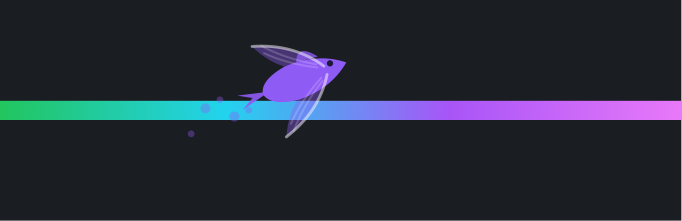
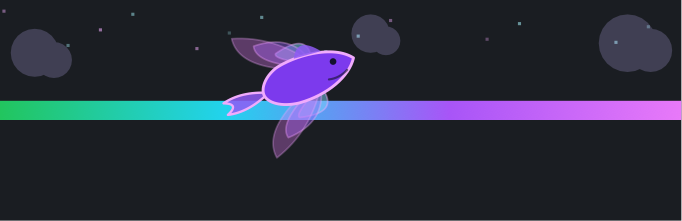
feat(kunpeng): restyle after the neon reference gif
- neon look: rim-lit body with a cyan->violet gradient, magenta rim at high
  levels, layered feather blades instead of thin slivers
- background tells the story: twinkling stars, water shimmer at low levels,
  cloud puffs once the level passes 55%
- body scale 0.6 -> 1.3, wings fan out from 40% of the range
- docs stills regenerated; README captions updated
- local only: no push, no release

diff --git a/lib/client.js b/lib/client.js
@@ -398,7 +398,7 @@ window.__ModuleLoader__.load({
 
 		/** Body scale of the creature: a small whale at off, a big Kunpeng at max. */
 		function kunpengScaleFor(energy) {
-			return 0.5 + 0.65 * clamp01(energy)
+			return 0.6 + 0.7 * clamp01(energy)
 		}
 
 		/** Wing growth 0..1, smoothstepped between 40% and 85% of the range. */
@@ -442,138 +442,169 @@ window.__ModuleLoader__.load({
 
 			paint(context, state, frame) {
 				const { energy, accent, width, height } = frame
-				const trackY = frame.trackY ?? height - 42
-				const time = state.time
 				const level = clamp01(energy)
+				const time = state.time
 
-				// ---- the creature ------------------------------------------
+				// night sky: a few twinkling stars
+				context.save()
+				for (let index = 0; index < 14; index += 1) {
+					const sx = ((index * 53.7) % Math.max(1, width - 2)) + 1
+					const sy = 4 + ((index * 31.3) % 30)
+					const twinkle = 0.35 + 0.45 * Math.abs(Math.sin(time * 1.6 + index * 1.7))
+					context.globalAlpha = twinkle * (0.45 + 0.4 * level)
+					context.fillStyle = index % 3 === 0 ? '#f0abfc' : '#a5f3fc'
+					context.fillRect(sx, sy, 1.3, 1.3)
+				}
+				context.restore()
+
+				const lineY = frame.trackY ?? (frame.band ? frame.band.top + frame.band.height : height - 40)
+
+				// water shimmer at low levels, cloud puffs at high levels
+				context.save()
+				if (level < 0.55) {
+					context.globalAlpha = 0.35 * (1 - level / 0.55)
+					context.fillStyle = accent
+					for (let x = 0; x < width; x += 7) {
+						const crest = 1.6 + Math.sin(x / 19 + time * 2.4) * 1.4
+						context.fillRect(x, lineY - 5 - crest, 3, 1.4)
+					}
+				} else {
+					context.globalAlpha = 0.16 + 0.1 * level
+					context.fillStyle = '#c4b5fd'
+					for (const cloud of [
+						{ x: 16, y: lineY - 24, r: 10 },
+						{ x: width - 24, y: lineY - 28, r: 12 },
+						{ x: width * 0.55, y: lineY - 32, r: 8 },
+					]) {
+						const drift = Math.sin(time * 0.6 + cloud.x) * 3
+						context.beginPath()
+						context.arc(cloud.x + drift, cloud.y, cloud.r, 0, Math.PI * 2)
+						context.arc(cloud.x + drift + cloud.r * 0.8, cloud.y + 3, cloud.r * 0.75, 0, Math.PI * 2)
+						context.fill()
+					}
+				}
+				context.restore()
+
+				// the creature
 				const scale = kunpengScaleFor(level)
 				const wing = kunpengWingFor(level)
 				const lift = kunpengLiftFor(level)
 				const angle = kunpengAngleFor(level)
-				const bob = Math.sin(time * 2.2) * (1.5 + 1.5 * level)
-				// Never clip the wings at the top of the fixed panel.
-				const reach = (wing > 0.05 ? 20 * wing + 6 : 9) * scale
-				// The bar is the standard horizontal line; the creature rides just
-				// above it and climbs only as far as the fixed panel allows.
-				const lineY = frame.trackY ?? (frame.band ? frame.band.top + frame.band.height : trackY)
+				const bob = Math.sin(time * 2.2) * (1.2 + 1.2 * level)
+				const reach = (wing > 0.05 ? 18 * wing + 7 : 8) * scale
 				const y = Math.max(reach + 2, lineY - lift - bob)
-
-				// bubbles / sparkles trailing behind
-				context.save()
-				context.globalAlpha = 0.5 * (1 - level * 0.4)
-				context.fillStyle = accent
-				for (let index = 0; index < 5; index += 1) {
-					const phase = time * 1.6 + index * 1.7
-					const bx = state.x - 26 * scale - index * 6
-					const by = y + 10 + Math.sin(phase) * 6 + index * 2
-					context.beginPath()
-					context.arc(bx, by, 1.4 + (index % 2) * 0.7, 0, Math.PI * 2)
-					context.fill()
-				}
-				context.restore()
 
 				drawKunpeng(context, { x: state.x, y, scale, wing, angle, accent, time, energy: level })
 			},
 		}
 
-		/** Paint the whale -> Kunpeng body in local units (roughly 40 long). */
+		/** Paint the whale -> Kunpeng in local units (roughly 44 long). */
 		function drawKunpeng(context, options) {
 			const { x, y, scale, wing, angle, accent, time, energy } = options
 			context.save()
 			context.translate(x, y)
 			context.rotate(angle)
 			context.scale(scale, scale)
+
+			const rim = energy > 0.5 ? '#f0abfc' : '#a5f3fc'
+			const glowColor = energy > 0.5 ? '#c084fc' : accent
 			context.lineJoin = 'round'
-			context.shadowColor = accent
-			context.shadowBlur = 8 + 10 * energy
+			context.lineCap = 'round'
 
-			const body = context.createLinearGradient(-24, 0, 20, 0)
-			body.addColorStop(0, accent)
-			body.addColorStop(0.55, '#ffffff')
-			body.addColorStop(1, accent)
-
-			// tail fluke
+			// ---- tail fluke (behind the body) ---------------------------
 			const flap = Math.sin(time * 6) * (2 + 5 * energy)
+			context.save()
+			context.shadowColor = glowColor
+			context.shadowBlur = 8 + 10 * energy
 			context.beginPath()
-			context.moveTo(-18, 0)
-			context.lineTo(-32, -7 + flap)
-			context.lineTo(-26, 0)
-			context.lineTo(-32, 7 - flap)
+			context.moveTo(-16, 0)
+			context.quadraticCurveTo(-26, -8 + flap, -34, -6 + flap)
+			context.quadraticCurveTo(-28, 0, -34, 6 - flap)
+			context.quadraticCurveTo(-26, 8 - flap, -16, 0)
 			context.closePath()
 			context.fillStyle = accent
-			context.globalAlpha = 0.9
+			context.globalAlpha = 0.85
 			context.fill()
-
-			// body
 			context.globalAlpha = 1
-			context.beginPath()
-			context.moveTo(19, 0)
-			context.quadraticCurveTo(8, -9, -8, -8)
-			context.quadraticCurveTo(-20, -6, -21, 0)
-			context.quadraticCurveTo(-20, 6, -8, 8)
-			context.quadraticCurveTo(8, 9, 19, 0)
-			context.closePath()
-			context.fillStyle = body
-			context.fill()
+			context.lineWidth = 1
+			context.strokeStyle = rim
+			context.stroke()
+			context.restore()
 
-			// dorsal fin
-			context.beginPath()
-			context.moveTo(-2, -8)
-			context.quadraticCurveTo(1, -16, 8, -7)
-			context.closePath()
-			context.fillStyle = accent
-			context.globalAlpha = 0.8
-			context.fill()
-
-			// wings grow with the level: a broad surface sweeping back from the body
+			// ---- wings (grow with the level) -----------------------------
 			if (wing > 0.01) {
-				const spread = 18 + 6 * wing
+				const spread = 18 + 7 * wing
 				for (const direction of [-1, 1]) {
-					context.globalAlpha = wing * 0.62
-					context.fillStyle = accent
-					context.beginPath()
-					context.moveTo(9, direction * 2)
-					context.quadraticCurveTo(0, direction * (spread * 0.75), -18, direction * spread)
-					context.quadraticCurveTo(-13, direction * (spread * 0.5), -4, direction * (spread * 0.26))
-					context.quadraticCurveTo(-2, direction * 4, 9, direction * 2)
-					context.closePath()
-					context.fill()
-
-					// bright leading edge
-					context.globalAlpha = wing * 0.8
-					context.strokeStyle = '#ffffff'
-					context.lineWidth = 1.2
-					context.beginPath()
-					context.moveTo(9, direction * 2)
-					context.quadraticCurveTo(0, direction * (spread * 0.75), -18, direction * spread)
-					context.stroke()
-
-					// two feather hints inside the surface
-					context.globalAlpha = wing * 0.3
-					context.lineWidth = 0.8
-					for (let feather = 1; feather <= 2; feather += 1) {
+					context.save()
+					context.shadowColor = glowColor
+					context.shadowBlur = 10 + 10 * wing
+					// three feather blades, longest on the outside
+					for (let blade = 0; blade < 3; blade += 1) {
+						const reachY = direction * spread * (0.6 + blade * 0.26)
+						const reachX = -8 - blade * 7
+						const alpha = wing * (0.8 - blade * 0.14)
+						context.globalAlpha = alpha
+						context.fillStyle = blade === 0 ? '#7dd3fc' : blade === 1 ? accent : '#e879f9'
 						context.beginPath()
-						context.moveTo(6, direction * (1 + feather * 1.5))
-						context.quadraticCurveTo(
-							-6,
-							direction * (spread * (0.28 + feather * 0.12)),
-							-14,
-							direction * (spread * (0.62 + feather * 0.16))
-						)
+						context.moveTo(9 - blade * 2, direction * 2)
+						context.quadraticCurveTo(reachX - 2, direction * (spread * 0.5), reachX, reachY)
+						context.quadraticCurveTo(reachX + 16, direction * (spread * (0.78 + blade * 0.06)), 4, direction * 5)
+						context.closePath()
+						context.fill()
+						context.globalAlpha = alpha * 0.9
+						context.lineWidth = 0.7
+						context.strokeStyle = rim
 						context.stroke()
 					}
+					context.restore()
 				}
 				context.globalAlpha = 1
 			}
 
-			// eye
+			// ---- body ---------------------------------------------------
+			context.save()
+			context.shadowColor = glowColor
+			context.shadowBlur = 12 + 10 * energy
+			const bodyGradient = context.createLinearGradient(0, -10, 0, 10)
+			bodyGradient.addColorStop(0, '#0ea5e9')
+			bodyGradient.addColorStop(0.45, '#67e8f9')
+			bodyGradient.addColorStop(1, '#7c3aed')
+			context.fillStyle = bodyGradient
+			context.beginPath()
+			context.moveTo(20, -1)
+			context.bezierCurveTo(14, -9, -2, -10, -10, -8)
+			context.bezierCurveTo(-16, -6, -18, -2, -18, 0)
+			context.bezierCurveTo(-18, 3, -14, 7, -6, 8)
+			context.bezierCurveTo(6, 9, 16, 5, 20, -1)
+			context.closePath()
+			context.fill()
+			context.lineWidth = 1.2
+			context.strokeStyle = rim
+			context.stroke()
+
+			// dorsal fin
+			context.globalAlpha = 0.85
+			context.beginPath()
+			context.moveTo(-2, -9)
+			context.quadraticCurveTo(2, -17, 9, -8)
+			context.closePath()
+			context.fillStyle = accent
+			context.fill()
 			context.globalAlpha = 1
+			context.restore()
+
+			// ---- eye + mouth line ---------------------------------------
 			context.shadowBlur = 0
 			context.beginPath()
-			context.arc(12, -2.2, 1.5, 0, Math.PI * 2)
-			context.fillStyle = 'rgba(10, 14, 24, 0.85)'
+			context.arc(12, -2.5, 1.4, 0, Math.PI * 2)
+			context.fillStyle = 'rgba(8, 12, 24, 0.9)'
 			context.fill()
+			context.beginPath()
+			context.moveTo(16, 2.5)
+			context.quadraticCurveTo(12, 4.5, 8, 3.5)
+			context.strokeStyle = 'rgba(8, 12, 24, 0.55)'
+			context.lineWidth = 0.9
+			context.stroke()
 
 			context.restore()
 		}
@@ -637,11 +668,6 @@ window.__ModuleLoader__.load({
 
 		// ----------------------------------------------------------------- styles
 
-		/**
-		 * One stylesheet for the whole plugin, injected once per document.
-		 * Everything that decides a shape or a color lives inline or as an SVG
-		 * attribute instead; this sheet only carries layout, type and motion.
-		 */
 		function ensureStyles() {
 			if (typeof document === 'undefined') return
 			const existing = document.getElementById('dsh-model-effort-chips-style')

diff --git a/docs/pixel-kunpeng-brief.md b/docs/pixel-kunpeng-brief.md
@@ -1,0 +1,58 @@
+# 鲲鹏像素动效 · 素材生成说明
+
+这份说明写给**图像模型 / 像素工具 / 美术**：按它产出的素材可以直接接进插件，不需要二次加工。
+
+## 一、要生成什么
+
+一张 **PNG sprite sheet**，透明背景，**每格 32×32**，**4 行 × 4 列 = 16 帧**。
+
+| 行 | 档位 | 形态 | 4 帧循环 |
+| --- | --- | --- | --- |
+| 0 | off | 小鲸鱼（体长约占格子 55%） | 摆尾游动 |
+| 1 | low | 稍大鲸鱼，背鳍出现 | 摆尾 + 轻微上浮 |
+| 2 | high | 长出翅膀（约占格宽 80%） | 振翅 + 身体上扬 |
+| 3 | max | 翼展最大，身体接近竖直 | 振翅 + 尾部拖尾/气泡 |
+
+## 二、硬性要求
+
+- **真像素**：每格 32×32，禁止抗锯齿、禁止模糊、禁止渐变阴影；边缘必须是整像素
+- **透明背景**，不要地板、不要光晕底
+- **调色板 ≤ 12 色**，主色跟随档位：off 青绿 → low 青 → high 蓝紫 → max 品红
+- 每行 4 帧必须**循环无缝**（第 4 帧接回第 1 帧不跳）
+- 角色朝向：**朝右**
+- 元素不要超出 32×32 格子（拖尾可以贴边，但不能压到相邻格）
+
+## 三、交付格式
+
+1. `kunpeng-pixel-sheet.png`：32×4 列横排 → 宽 128、高 128（4 行 × 4 列）
+2. 可选 `kunpeng-pixel-sheet.json`：
+
+```json
+{
+  "frameSize": 32,
+  "columns": 4,
+  "rows": [
+    { "form": "off",  "row": 0, "fps": 6 },
+    { "form": "low",  "row": 1, "fps": 7 },
+    { "form": "high", "row": 2, "fps": 9 },
+    { "form": "max",  "row": 3, "fps": 11 }
+  ],
+  "pivot": { "x": 16, "y": 20 }
+}
+```
+
+## 四、可以直接贴进工具的描述
+
+> Pixel art sprite sheet, 4 rows × 4 columns, each frame exactly 32×32 pixels, transparent background, no anti-aliasing, no gradients, max 12 colors, character faces right and loops seamlessly across the 4 frames.
+> Row 1: a tiny whale swimming, tail flap.
+> Row 2: the same whale slightly bigger with a dorsal fin, gliding up.
+> Row 3: the whale grows bird-like wings, flapping.
+> Row 4: largest wingspan, body nearly vertical, climbing with a short bubble trail.
+> Palette shifts per row: teal-green, cyan, blue-violet, magenta.
+
+## 五、接进插件时我会做什么
+
+- canvas 设 `imageSmoothingEnabled = false`，整数倍缩放（32 → 2× = 64px）
+- 按当前档位选行，按 `fps` 选列，x 位置沿横线匀速循环
+- 新增特效 id `kunpeng-pixel`，与现有 `kunpeng` 并存，面板按钮可切换
+- 面板尺寸仍是 **324 × 141**、canvas **284 × 92**，动画不得超框

diff --git a/README.md b/README.md
@@ -10,12 +10,12 @@
 
 *上面的 GIF 是 **粒子波动特效**：点开强度 chip → 滑条浮层，档位越高小球撞得越凶、频谱呼吸越深。*
 
-默认特效是 **鲲鹏动效**，一只随档位长大的生灵，贴着统一的横线轨道游动 / 起飞：
+默认特效是 **鲲鹏动效**：霓虹描边的鲸鱼贴着统一横线游动，档位升高时长出羽翼，max 时振翅离线上浮；背景从水波（低档）过渡到云团与星点（高档）：
 
 | off | high | max |
 | --- | --- | --- |
 | ![off](docs/kunpeng-off.png) | ![high](docs/kunpeng-high.png) | ![max](docs/kunpeng-max.png) |
-| 小鲸鱼沿横线游过 | 长出翅膀，离开轨道 | 振翅飞天（固定面板内升空约 22px） |
+| 小鲸鱼贴线游过，水波微光 | 羽翼展开，云团浮现 | 振翅离线上浮约 22px，星点闪烁 |
 
 ![改前改后](docs/before-after.png)
 
@@ -92,7 +92,7 @@ node scripts/uninstall.mjs                      # 只删链接与两条 profile 
 | 特效 | id | 说明 |
 | --- | --- | --- |
 | 粒子波动特效 | `particle-wave` | 小球在鼓面上弹跳碰撞。off 为 0 颗，第二档 6 颗；档位越高数量越多、重力越大、初速越快、弹性越强，所以碰撞是物理算出来的，不是写死的概率 |
-| 鲲鹏动效（默认） | `kunpeng` | 小鲸鱼沿横线轨道游过；档位越高体形越大、逐渐长出翅膀，max 时振翅飞天 |
+| 鲲鹏动效（默认） | `kunpeng` | 霓虹鲸鱼贴线游动；档位越高体形越大、羽翼逐层展开，max 振翅上浮；背景水波→云团 |
 
 > 还想要别的动效？**[动效 × 著名 IP × 推理强度设计总目录](docs/effects-catalog.md)** 收录了 12 类 74 条可插拔动效、9 类 48 条 IP 母题，以及每条在 DSH 里的落地方式与档位映射。
 
